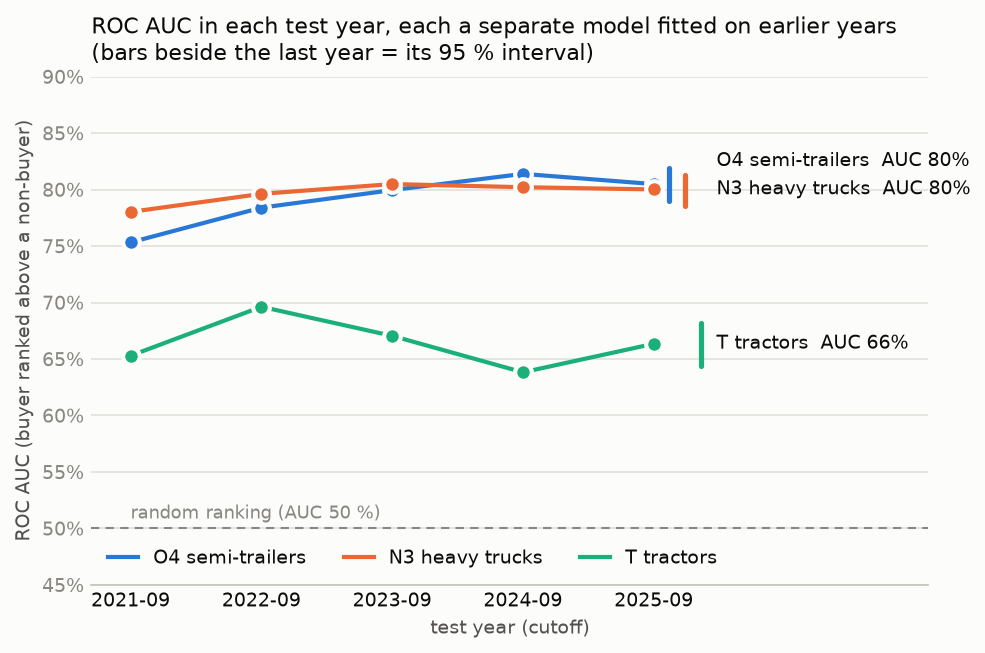
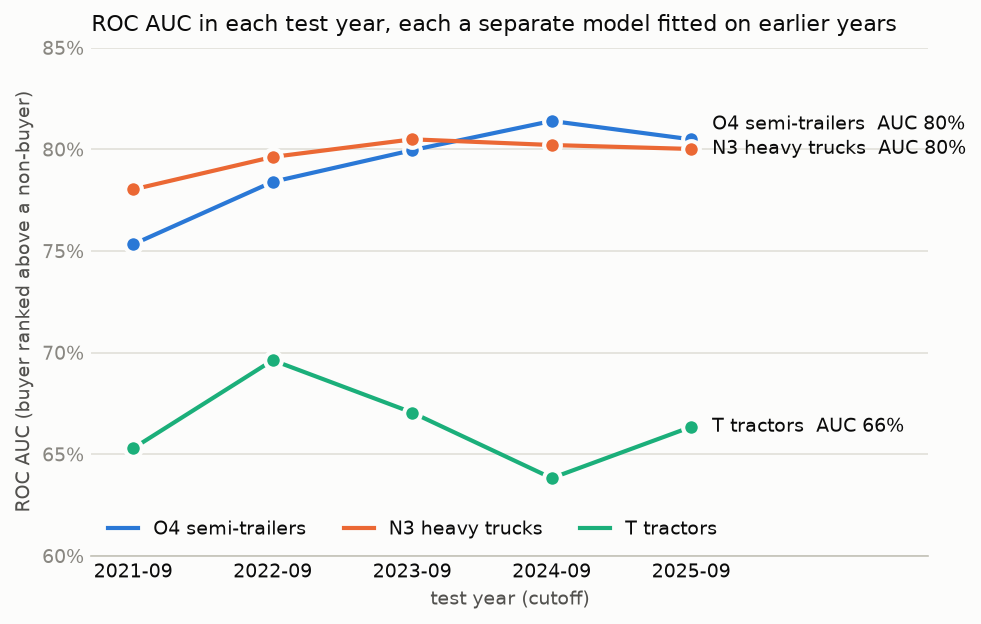
Simplify the ROC AUC chart: drop interval bars and the 50 % line

diff --git a/tools/plot_report.py b/tools/plot_report.py
@@ -129,37 +129,28 @@ def who_curves(reports: list[dict], path: Path) -> None:
 
 
 def who_ranking(reports: list[dict], path: Path) -> None:
-    """Ranking quality (ROC AUC) in each walk-forward test year, with the 95 % interval of the last one."""
+    """Ranking quality (ROC AUC) in each walk-forward test year."""
     fig, ax = plt.subplots(figsize=(7.2, 4.4), facecolor=SURFACE)
     years = [y["test_cutoff"][:7] for y in reports[0]["who_by_year"]]
     x = np.arange(len(years))
     ends = []
-    for i, (r, colour) in enumerate(zip(reports, COLOURS, strict=False)):
+    for r, colour in zip(reports, COLOURS, strict=False):
         auc = [y["roc_auc"] for y in r["who_by_year"]]
         ax.plot(x, auc, color=colour, linewidth=2, label=r["name"])
         ax.plot(x, auc, "o", color=colour, markersize=8, markeredgecolor=SURFACE, markeredgewidth=2)
-        low, high = r["who"]["roc_auc_ci95"]
-        bar_x = x[-1] + 0.12 * (i + 1)  # beside the last point, so overlapping intervals stay readable
-        ax.plot([bar_x, bar_x], [low, high], color=colour, linewidth=2.5, solid_capstyle="round")
         ends.append([auc[-1], f"{r['name']}  AUC {auc[-1]:.0%}"])
     # Spread the end labels so series that finish at the same value do not collide.
     ends.sort(key=lambda e: e[0])
     for k in range(1, len(ends)):
-        ends[k][0] = max(ends[k][0], ends[k - 1][0] + 0.025)
+        ends[k][0] = max(ends[k][0], ends[k - 1][0] + 0.012)
     for y_label, text in ends:
-        ax.text(x[-1] + 0.12 * (len(reports) + 1), y_label, text, va="center", fontsize=9, color=INK)
-    ax.axhline(0.5, color=MUTED, linewidth=1, linestyle=(0, (4, 3)))
-    ax.text(x[0], 0.505, "random ranking (AUC 50 %)", fontsize=8.5, color=MUTED, va="bottom")
+        ax.text(x[-1] + 0.15, y_label, text, va="center", fontsize=9, color=INK)
     ax.set_xticks(x, years)
-    ax.set_xlim(-0.3, len(years) - 1 + 2.1)
-    ax.set_ylim(0.45, 0.9)
+    ax.set_xlim(-0.3, len(years) - 1 + 1.7)
+    ax.set_ylim(0.6, 0.85)
     ax.set_xlabel("test year (cutoff)", color=SECONDARY, fontsize=9)
     ax.set_ylabel("ROC AUC (buyer ranked above a non-buyer)", color=SECONDARY, fontsize=9)
-    title(
-        ax,
-        "ROC AUC in each test year, each a separate model fitted on earlier years\n"
-        "(bars beside the last year = its 95 % interval)",
-    )
+    title(ax, "ROC AUC in each test year, each a separate model fitted on earlier years")
     legend(ax, loc="lower left", ncols=3)
     style(ax, "y")
     percent_axis(ax, x=False)

diff --git a/docs/RESULTS.md b/docs/RESULTS.md
@@ -81,7 +81,7 @@ measure of whether the model holds from year to year.
 Trucks held at 78 to 80 %. Trailers rose from 75 % to 80 to 81 % in the last
 three years. Tractors moved between 64 % and 70 % with no trend.
 
-![ROC AUC in each of five test years, with the 95 % interval of the last one](figures/who_ranking.png)
+![ROC AUC in each of five test years](figures/who_ranking.png)
 
 **The yes/no call.** Each cell is **precision / recall**:
 
